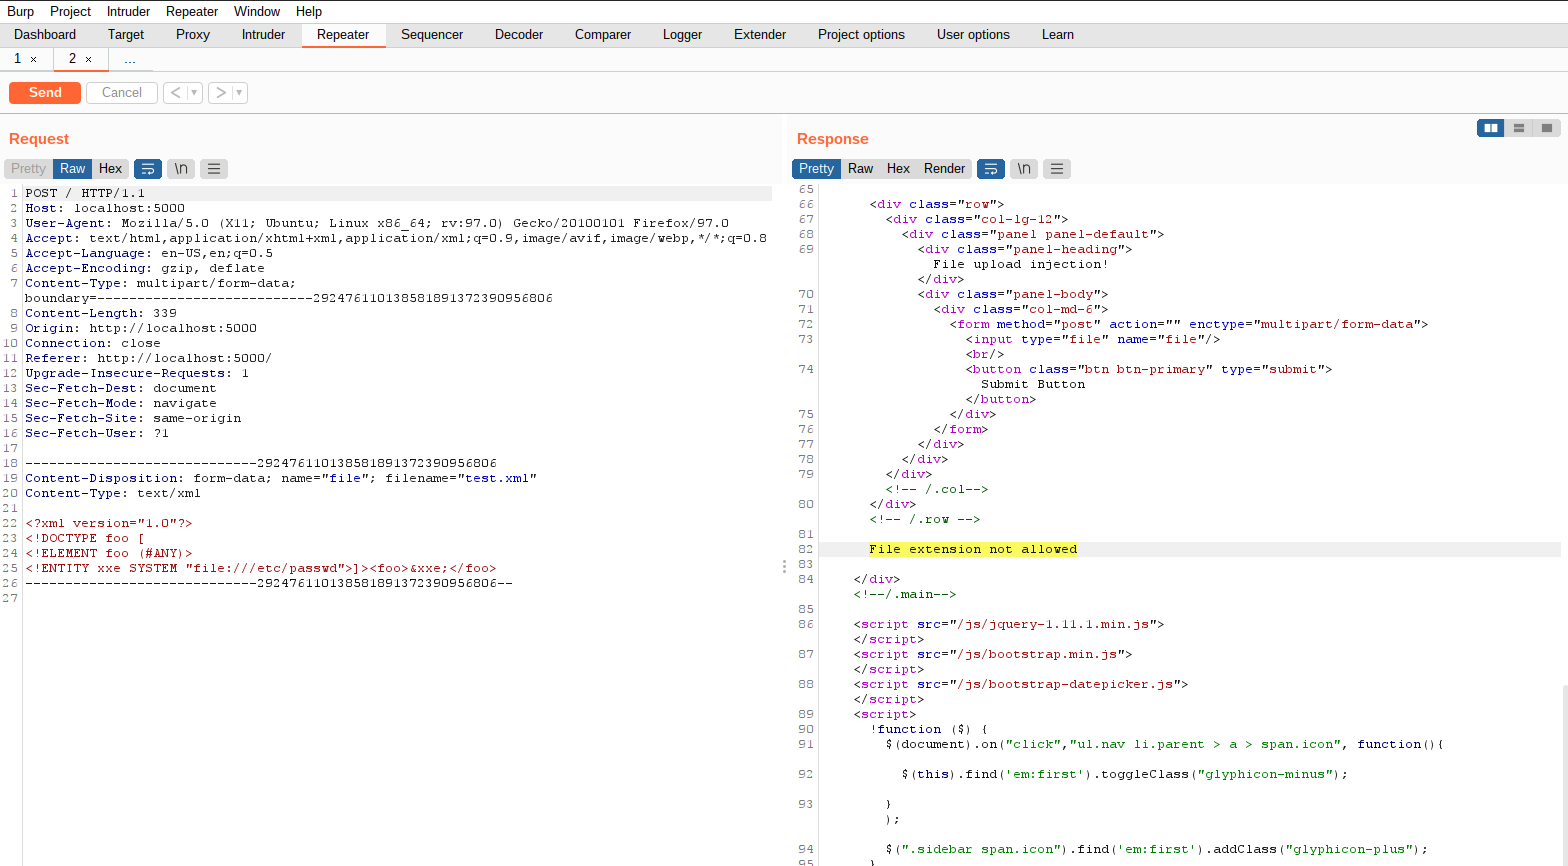
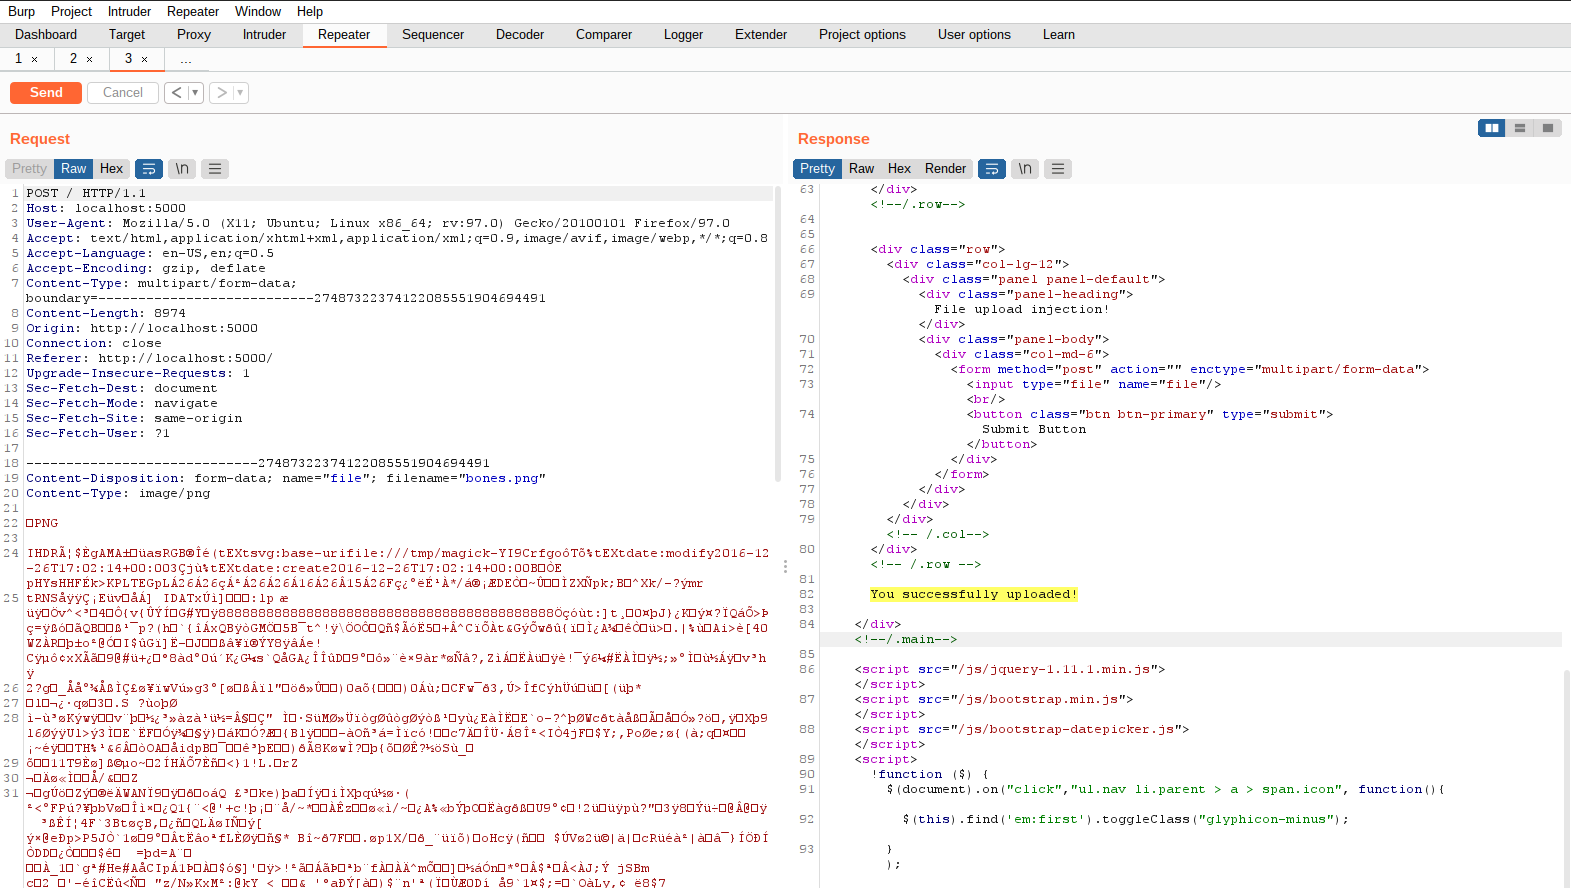
fix displaying of uploaded files and update writeup png

diff --git a/java/file-upload/src/main/resources/static/js/welcome.js b/java/file-upload/src/main/resources/static/js/welcome.js
@@ -1,0 +1,2 @@
+document.getElementsByClassName("panel-body")[0].innerText = "Welcome to the DOM XSS challenge!";
+

diff --git a/java/file-upload/src/main/java/com/skf/labs/fileupload/FileUploadController.java b/java/file-upload/src/main/java/com/skf/labs/fileupload/FileUploadController.java
@@ -1,13 +1,19 @@
 package com.skf.labs.fileupload;
 
+import com.skf.labs.fileupload.storage.StorageProperties;
 import com.skf.labs.fileupload.storage.StorageService;
 import org.springframework.beans.factory.annotation.Autowired;
+import org.springframework.core.io.InputStreamResource;
+import org.springframework.core.io.Resource;
+import org.springframework.http.HttpHeaders;
+import org.springframework.http.ResponseEntity;
 import org.springframework.stereotype.Controller;
 import org.springframework.ui.Model;
-import org.springframework.web.bind.annotation.GetMapping;
-import org.springframework.web.bind.annotation.PostMapping;
-import org.springframework.web.bind.annotation.RequestParam;
+import org.springframework.web.bind.annotation.*;
 import org.springframework.web.multipart.MultipartFile;
+
+import java.io.IOException;
+import java.io.InputStream;
 
 @Controller
 public class FileUploadController {
@@ -23,6 +29,13 @@ public class FileUploadController {
   public String listUploadedFiles() {
 
     return "index";
+  }
+
+  @GetMapping("/{filename}")
+  @ResponseBody
+  public  ResponseEntity<Resource> serveFile(@PathVariable String filename) throws IOException {
+      Resource file = storageService.loadAsResource("../downloads/" + filename);
+      return ResponseEntity.ok().header(HttpHeaders.CONTENT_TYPE, "image/png").body(file);
   }
 
   @PostMapping("/")
